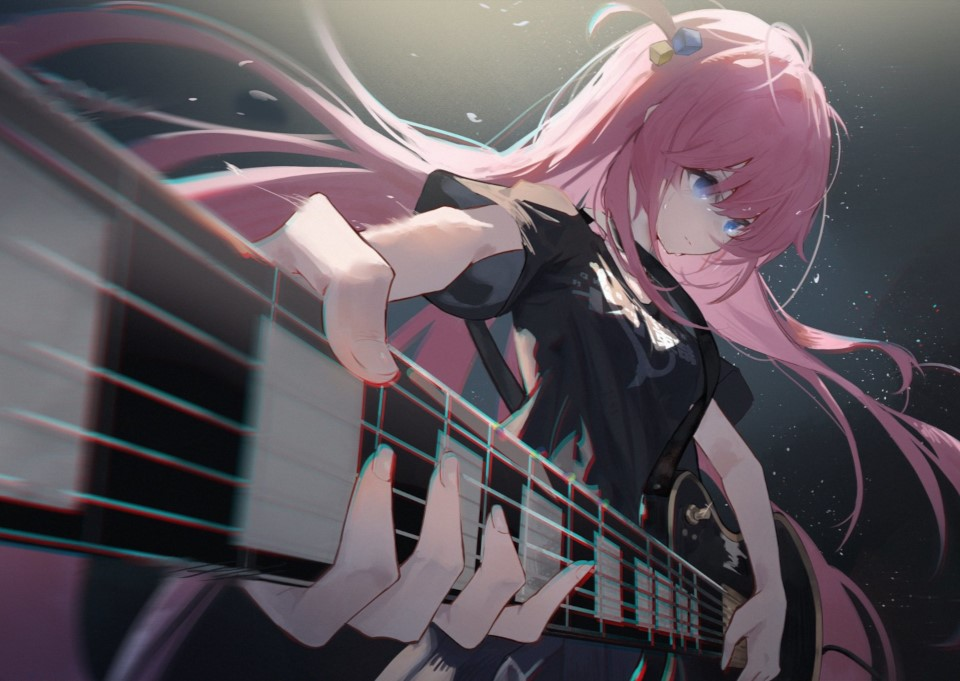
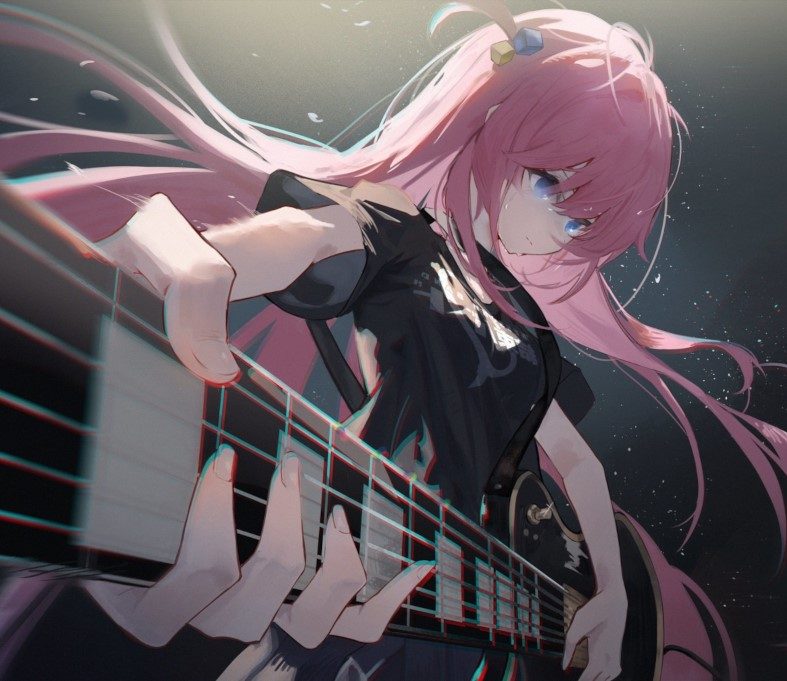
arrumando de vez a responsividade de sobre no tablet

diff --git a/styles/media-sobre.css b/styles/media-sobre.css
@@ -50,7 +50,7 @@
                 rgba(0, 0, 0, 0.5) 55%,
                 rgba(0, 0, 0, 0.2) 85%,
                 rgba(0, 0, 0, 0.1) 100%),
-            url(../imagens/fundo-sobre.jpeg) center top no-repeat;
+            url(../imagens/fundo-sobre-tablet.jpeg) center top no-repeat;
         background-size: cover;
         background-attachment: fixed;
     }
@@ -78,8 +78,12 @@
         grid-template-columns: repeat(4, 1fr);
     }
 
-    .topic>p {
-        font-size: 13px;
+    .topic > p {
+        font-size: 12px;
+    }
+
+    .topic h2{
+        font-size: 16px;
     }
 
     /* seção de info */
@@ -93,7 +97,6 @@
         height: 340px;
         display: grid;
         grid-template-columns: repeat(2, 1fr);
-        grid-template-rows: repeat(2, 1fr);
         gap: 20px;
     }
 
@@ -130,6 +133,29 @@
         height: 250px;
     }
 /* conheça a banda */
+    
+    .box-persons{
+        display: grid;
+        grid-template-columns: repeat(2, 1fr);
+        gap: 20px;
+    }
 
+    .persons-text > p{
+        font-size: 1.8em;
+    }
+
+    .persons-text > h2{
+        font-size: 3.8em;
+    }
+    .text{
+        font-size: 13px;
+    }
+
+    .person-text p{
+        font-size: 13px;
+    }
+    .person-text h5{
+        font-size: 0.8em;
+    }
 
 }

diff --git a/styles/sobre.css b/styles/sobre.css
@@ -155,7 +155,6 @@ section#temas .vermelho{
 }
 /* seção das informações */
 
-
 .cards{
     width: 100%;
     height: 100px;
@@ -177,7 +176,9 @@ section#temas .vermelho{
     color: white;
     font-size: 9px;
 }
-
+  .cards .info-icon {
+        margin-bottom: 5px;
+    }
 
 .cards img{
     min-width: 30px;
@@ -293,7 +294,7 @@ section#linhadotempo span{
 
 section#persons{
     width: 100%;
-    min-height: 850px;
+    height: auto;
     margin-top: 20px;
     border: 1px solid var(--bocchi);
     border-radius: 10px;
@@ -365,8 +366,7 @@ section#persons{
 .person-text h5{
     font-weight: 500;
     font-size: .9em;
-    margin: 5px 0px;
-    padding-left: 15px;
+    margin: 5px 0px 10px 15px;
 }
 
 section#persons .rosa{
@@ -397,5 +397,5 @@ section#persons a{
 
 #persons .button{
     text-align: center;
-    margin-top: 35px;
+    margin: 35px 0px;
 }
